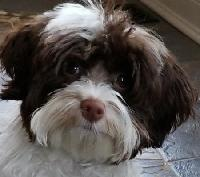
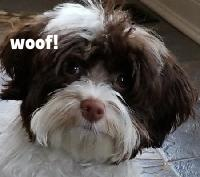
udacity full solution image modifications and adding a text

Changed region(s): [[0.03, 0.1977, 0.3, 0.2825]]

diff --git a/large_codebases/using libraries/img_udacity.py b/large_codebases/using libraries/img_udacity.py
@@ -1,11 +1,13 @@
-from PIL import Image
+from PIL import Image, ImageDraw, ImageFont
 
-def generate_postcard(in_path, out_path, crop=None, width=None):
+def generate_postcard(in_path, out_path, message=None, crop=None, width=None):
     """Create a Postcard With a Text Greeting
 
     Arguments:
         in_path {str} -- the file location for the input image.
         out_path {str} -- the desired location for the output image.
+        crop {tuple} -- The crop rectangle, as a (left, upper, right, lower)-tuple. Default=None.
+        width {int} -- The pixel width value. Default=None.
     Returns:
         str -- the file path to the output image.
     """
@@ -19,11 +21,17 @@ def generate_postcard(in_path, out_path, crop=None, width=None):
         height = int(ratio*float(img.size[1]))
         img = img.resize((width, height), Image.NEAREST)
 
+    if message is not None:
+        draw = ImageDraw.Draw(img)
+        font = ImageFont.truetype('./fonts/LilitaOne-Regular.ttf', size=20)
+        draw.text((10, 30), message, font=font, fill='white')
+
     img.save(out_path)
     return out_path
 
 if __name__=='__main__':
     print(generate_postcard('./imgs/img.jpg',
                             './imgs/out.jpg',
+                            'woof!',
                             (450, 900, 900, 1300),
                             200))
